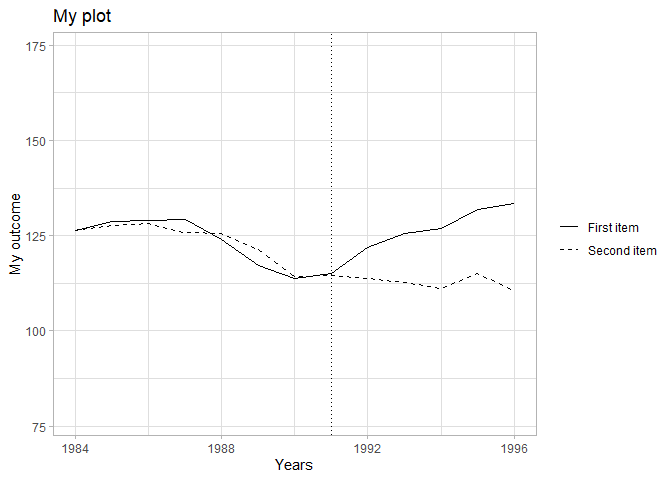
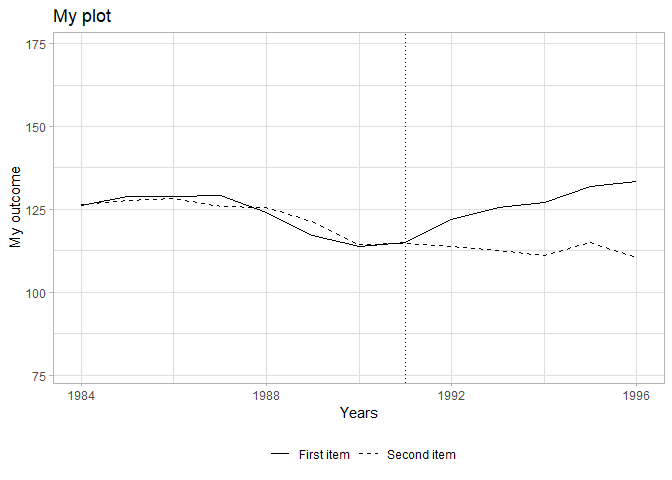
add example with legend at the bottom

diff --git a/README.md b/README.md
@@ -96,7 +96,10 @@ With additional arguments:
 
 ``` r
 my_path_plot(dataprep.res = dataprep.out, synth.res = synth.out, tr.intake = 1991, Ylab = "My outcome", Xlab = "Years", Main = "My plot", Legend = c("First item", "Second item"), ggplot = TRUE) +
-  ggplot2::theme_light()
+  ggplot2::theme_light() +
+  ggplot2::theme(
+    legend.position = "bottom"
+  )
 ```
 
     ## Warning in my_path_plot(dataprep.res = dataprep.out, synth.res = synth.out, :
